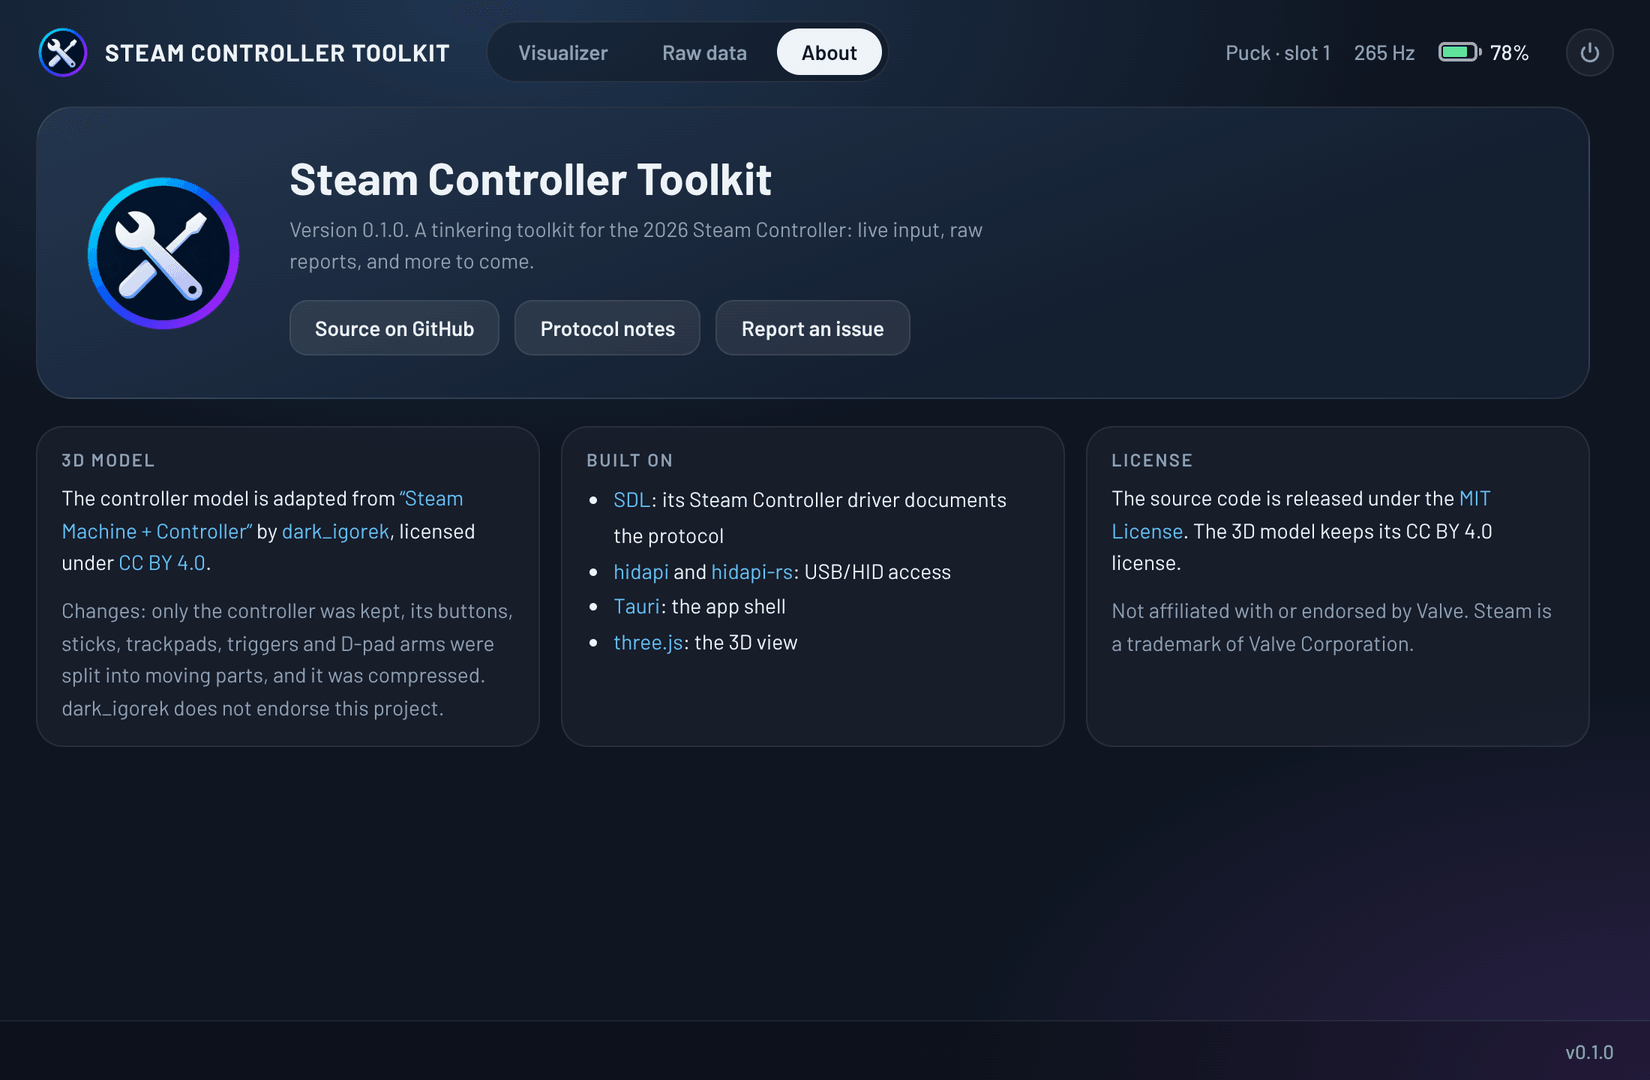
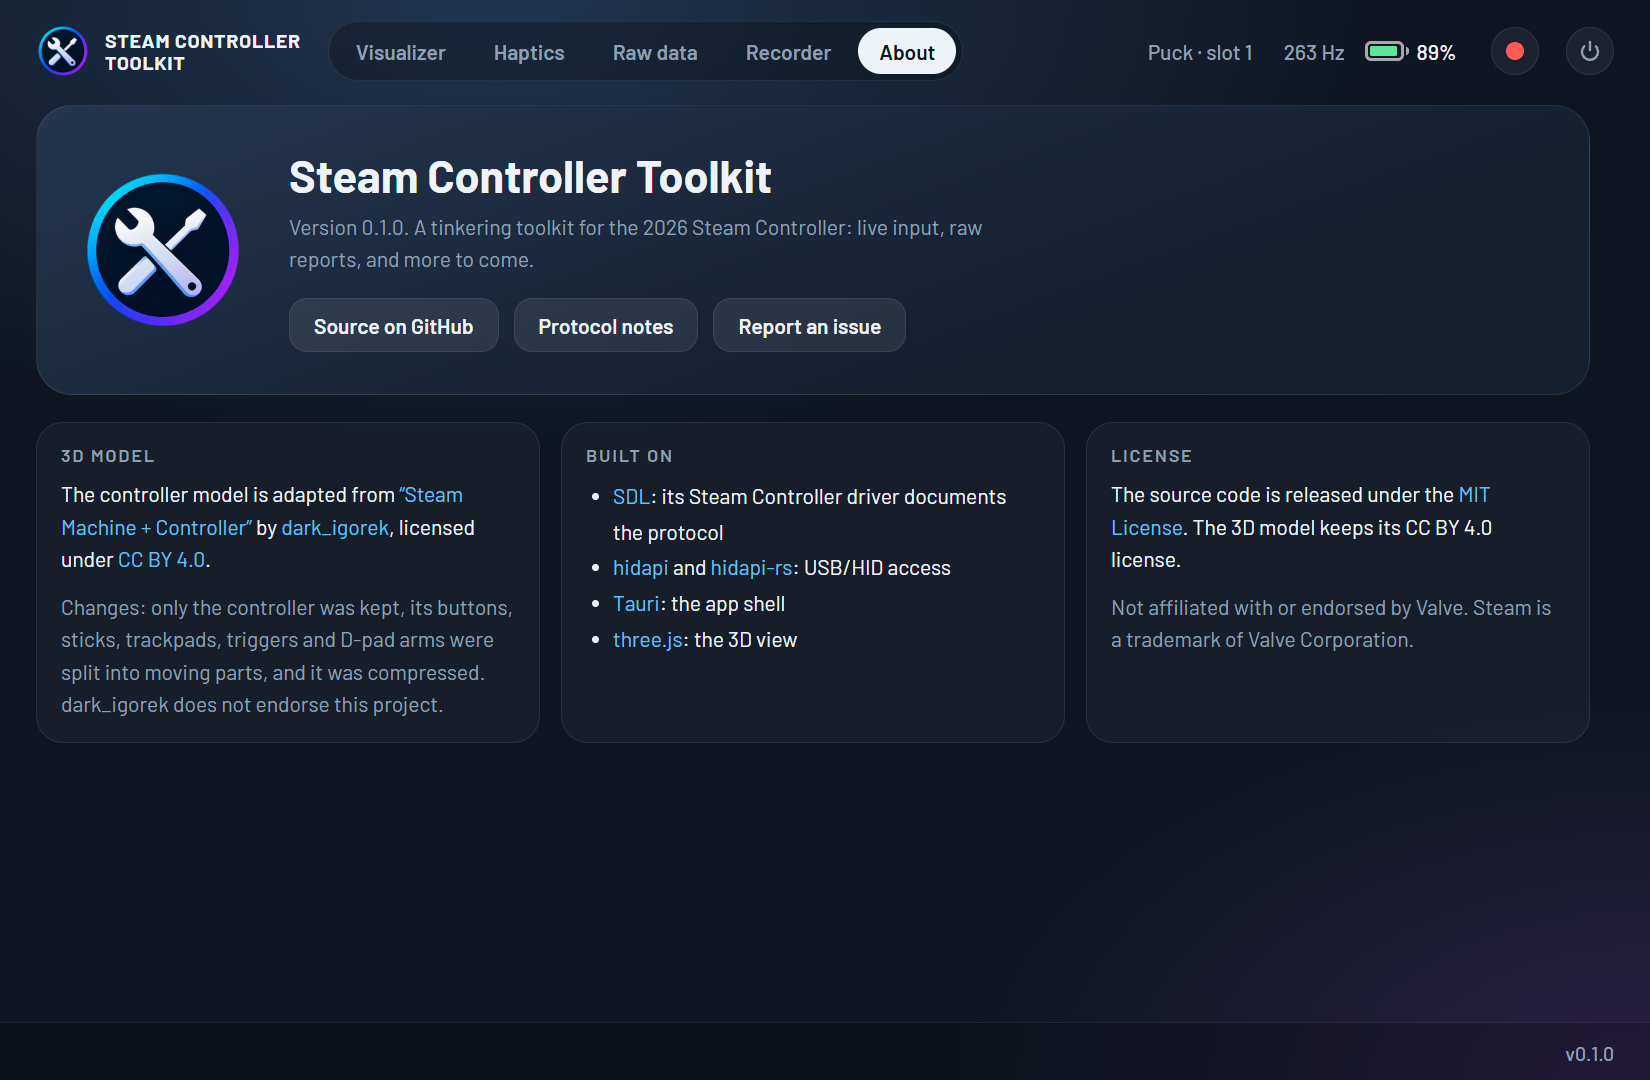
Retake the README screenshots and add one for Haptics
Shows the two-line title and the current tab bar. Taken at 1100 x 720
(1.5x) from a real recording replayed into the UI.

diff --git a/README.md b/README.md
@@ -48,6 +48,8 @@ Play every haptic effect the controller supports, on the left, right or both act
 - **Pulse trains** and **frequency sweeps**.
 - The bytes of the last report sent, for protocol work.
 
+![Haptics tab: rumble, taps, pulse trains, tone with a piano keyboard and sweeps](docs/screenshots/haptics.png)
+
 ### Raw data
 
 ![Raw data tab: connection details, colour-coded byte map, decoded inputs and motion](docs/screenshots/raw-data.png)
